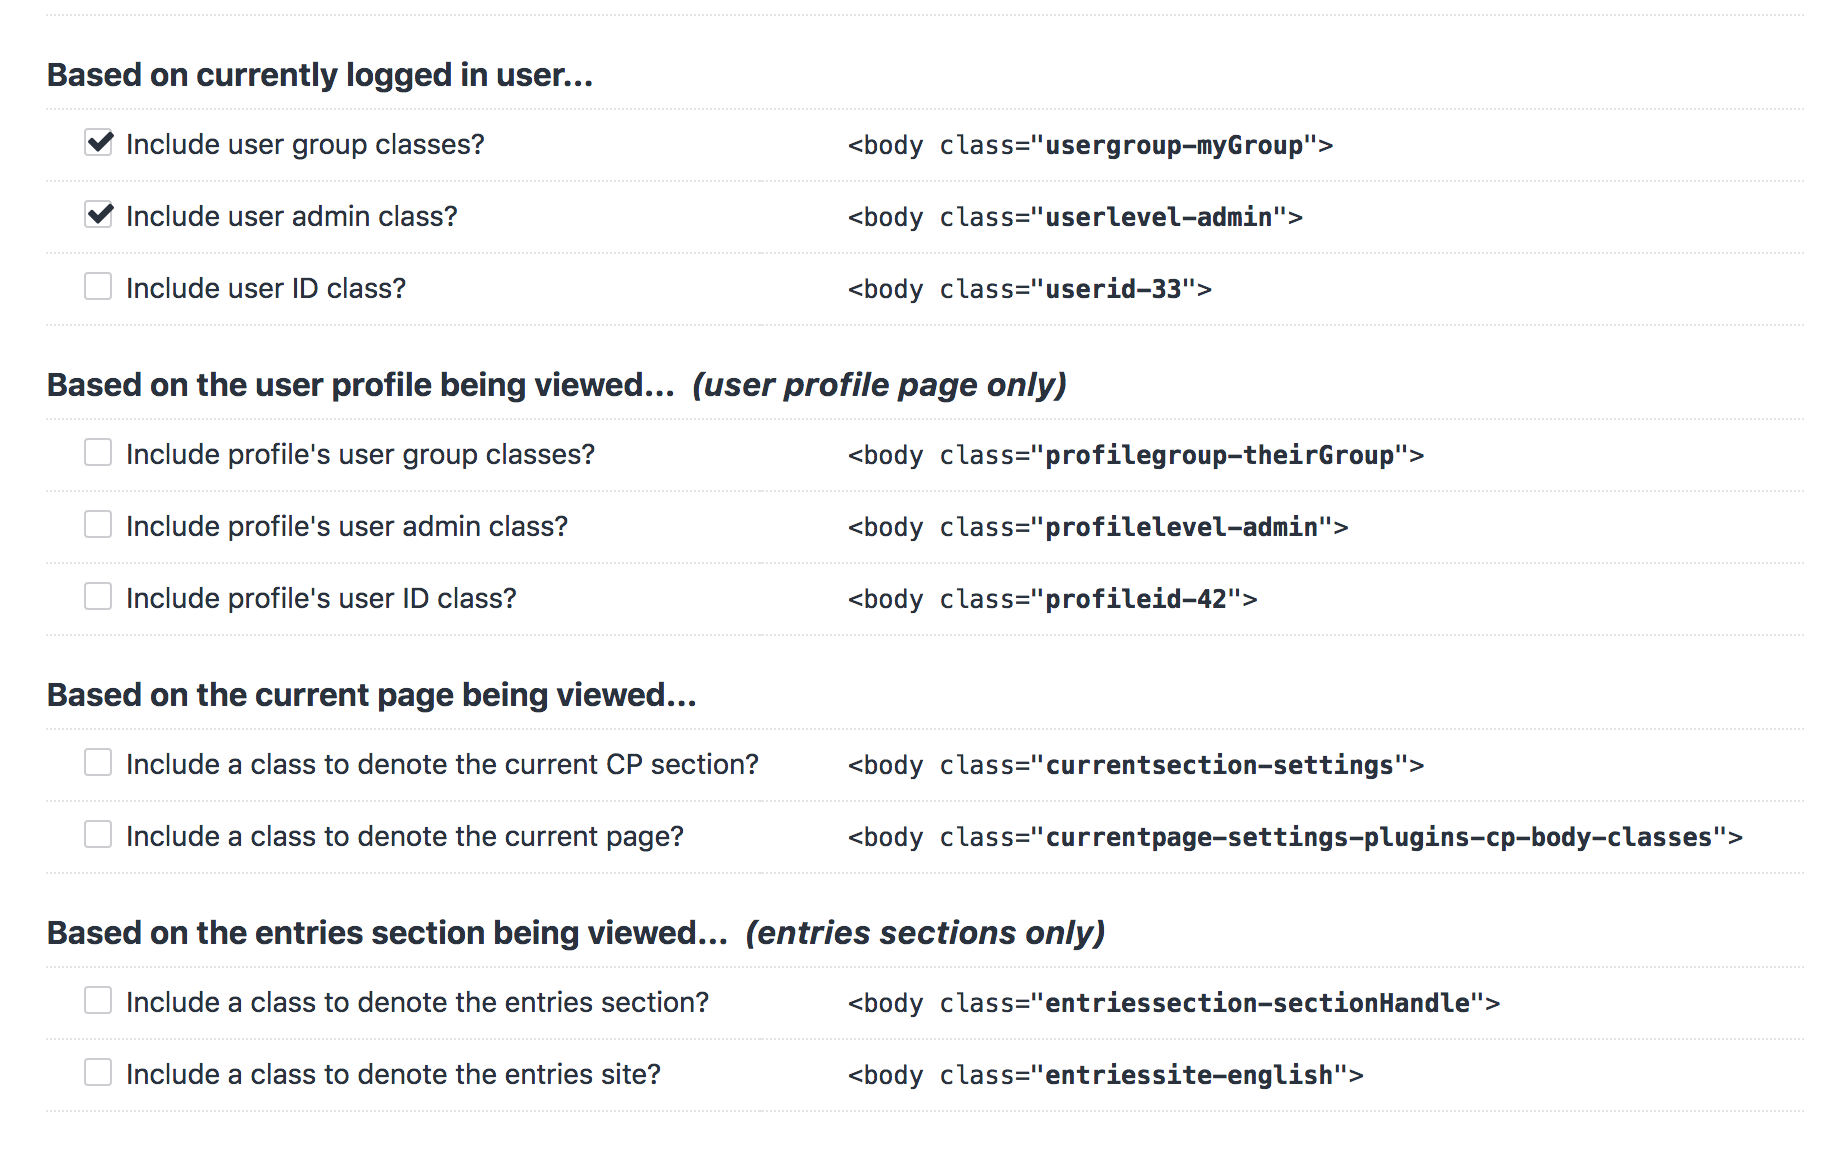
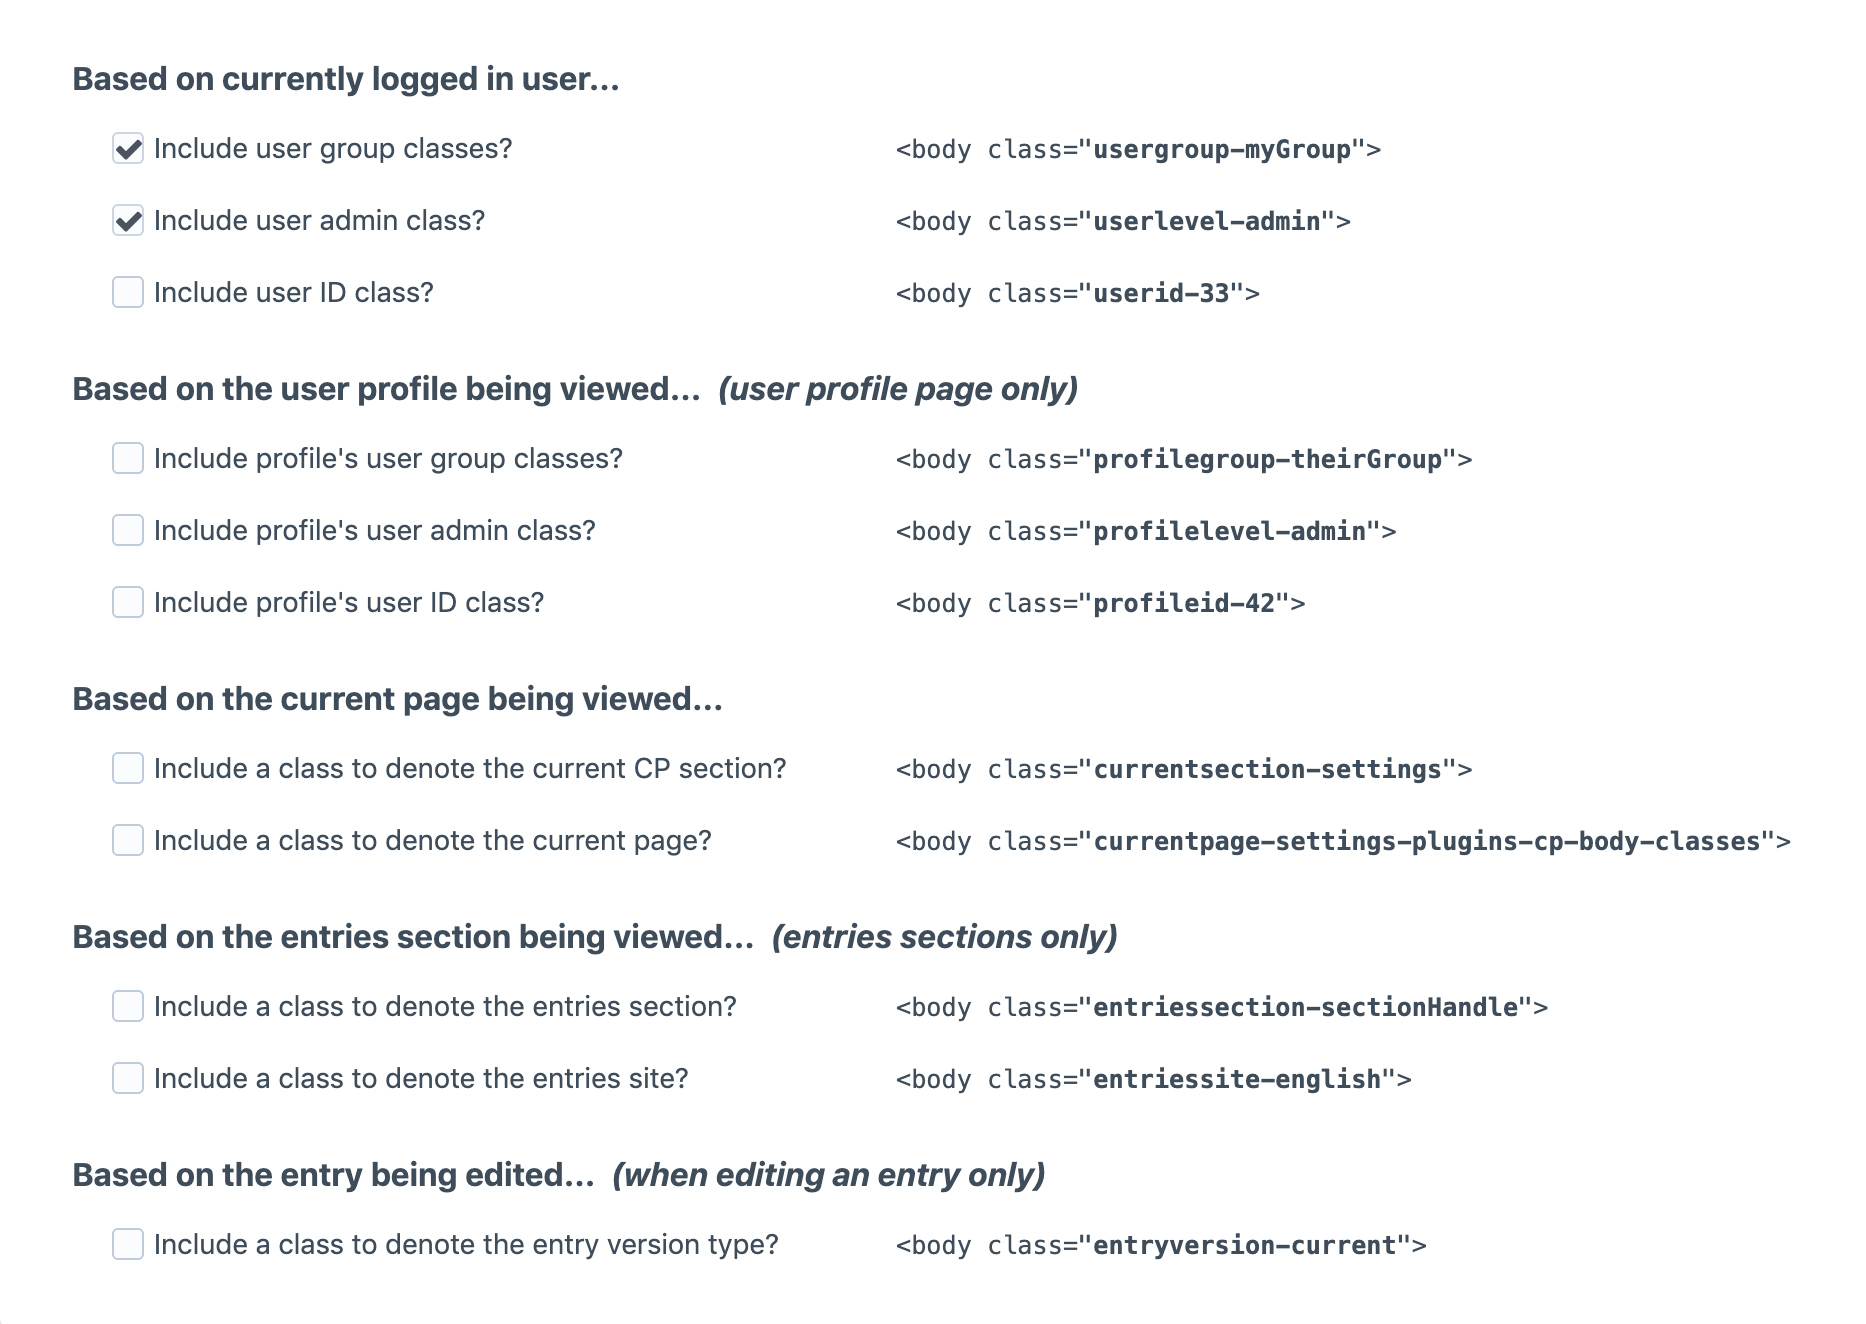
Added “entryversion” classes

diff --git a/src/models/Settings.php b/src/models/Settings.php
@@ -20,34 +20,37 @@ use craft\base\Model;
 class Settings extends Model
 {
 
-    /** @var bool  $showUserGroups  Whether to show user group classes. */
+    /** @var bool Whether to show user group classes. */
     public $showUserGroups = true;
 
-    /** @var bool  $showUserAdmin  Whether to show a class for admins. */
+    /** @var bool Whether to show a class for admins. */
     public $showUserAdmin = true;
 
-    /** @var bool  $showUserId  Whether to show a class for the user's ID. */
+    /** @var bool Whether to show a class for the user's ID. */
     public $showUserId = false;
 
-    /** @var bool  $showProfileUserGroups  When viewing another user's profile, whether to show their user group classes. */
+    /** @var bool When viewing another user's profile, whether to show their user group classes. */
     public $showProfileUserGroups = false;
 
-    /** @var bool  $showProfileUserAdmin  When viewing another user's profile, whether to show a class if they are an admin. */
+    /** @var bool When viewing another user's profile, whether to show a class if they are an admin. */
     public $showProfileUserAdmin = false;
 
-    /** @var bool  $showProfileId  When viewing another user's profile, whether to show a class for their user ID. */
+    /** @var bool When viewing another user's profile, whether to show a class for their user ID. */
     public $showProfileId = false;
 
-    /** @var bool  $showCurrentSection  Whether to show a class for the current section. */
+    /** @var bool Whether to show a class for the current section. */
     public $showCurrentSection = false;
 
-    /** @var bool  $showCurrentPage  Whether to show a class for the current page. */
+    /** @var bool Whether to show a class for the current page. */
     public $showCurrentPage = false;
 
-    /** @var bool  $showEntriesSection  Whether to show a class for entries of a particular section. */
+    /** @var bool Whether to show a class for entries of a particular section. */
     public $showEntriesSection = false;
 
-    /** @var bool  $showEntriesSite  Whether to show a class for entries of a particular site. */
+    /** @var bool Whether to show a class for entries of a particular site. */
     public $showEntriesSite = false;
+
+    /** @var bool When editing an entry, whether to show a class for the version type. */
+    public $showEntryVersion = false;
 
 }

diff --git a/src/services/BodyClasses.php b/src/services/BodyClasses.php
@@ -185,6 +185,46 @@ class BodyClasses extends Component
         }
     }
 
+    /**
+     * Entry version class.
+     *
+     * @return void
+     */
+    public function classEntryVersion()
+    {
+        // Get URL segments
+        $section = Craft::$app->request->getSegment(1);
+        $entry   = Craft::$app->request->getSegment(3);
+
+        // If not editing an entry, bail
+        if ('entries' != $section || !$entry) {
+            return;
+        }
+
+        // Get query parameters
+        $fresh      = Craft::$app->getRequest()->getQueryParam('fresh');
+        $draftId    = Craft::$app->getRequest()->getQueryParam('draftId');
+        $revisionId = Craft::$app->getRequest()->getQueryParam('revisionId');
+
+        // Set which entry version
+        if ($fresh) {
+            // Brand new
+            $version = 'new';
+        } else if ($draftId) {
+            // Draft of existing
+            $version = 'draft';
+        } else if ($revisionId) {
+            // Previously published revision
+            $version = 'revision';
+        } else {
+            // Current version
+            $version = 'current';
+        }
+
+        // Compile page class
+        $this->_addClass('entryversion', $version);
+    }
+
     // ======================================================================== //
 
     /**

diff --git a/src/CpBodyClasses.php b/src/CpBodyClasses.php
@@ -65,6 +65,7 @@ class CpBodyClasses extends Plugin
                 if ($s->showCurrentPage)       {$c->classCurrentPage();}
                 if ($s->showEntriesSection)    {$c->classEntriesSection();}
                 if ($s->showEntriesSite)       {$c->classEntriesSite();}
+                if ($s->showEntryVersion)      {$c->classEntryVersion();}
 
                 // If any body classes have been set, apply them
                 if (!empty($c->bodyClasses)) {
